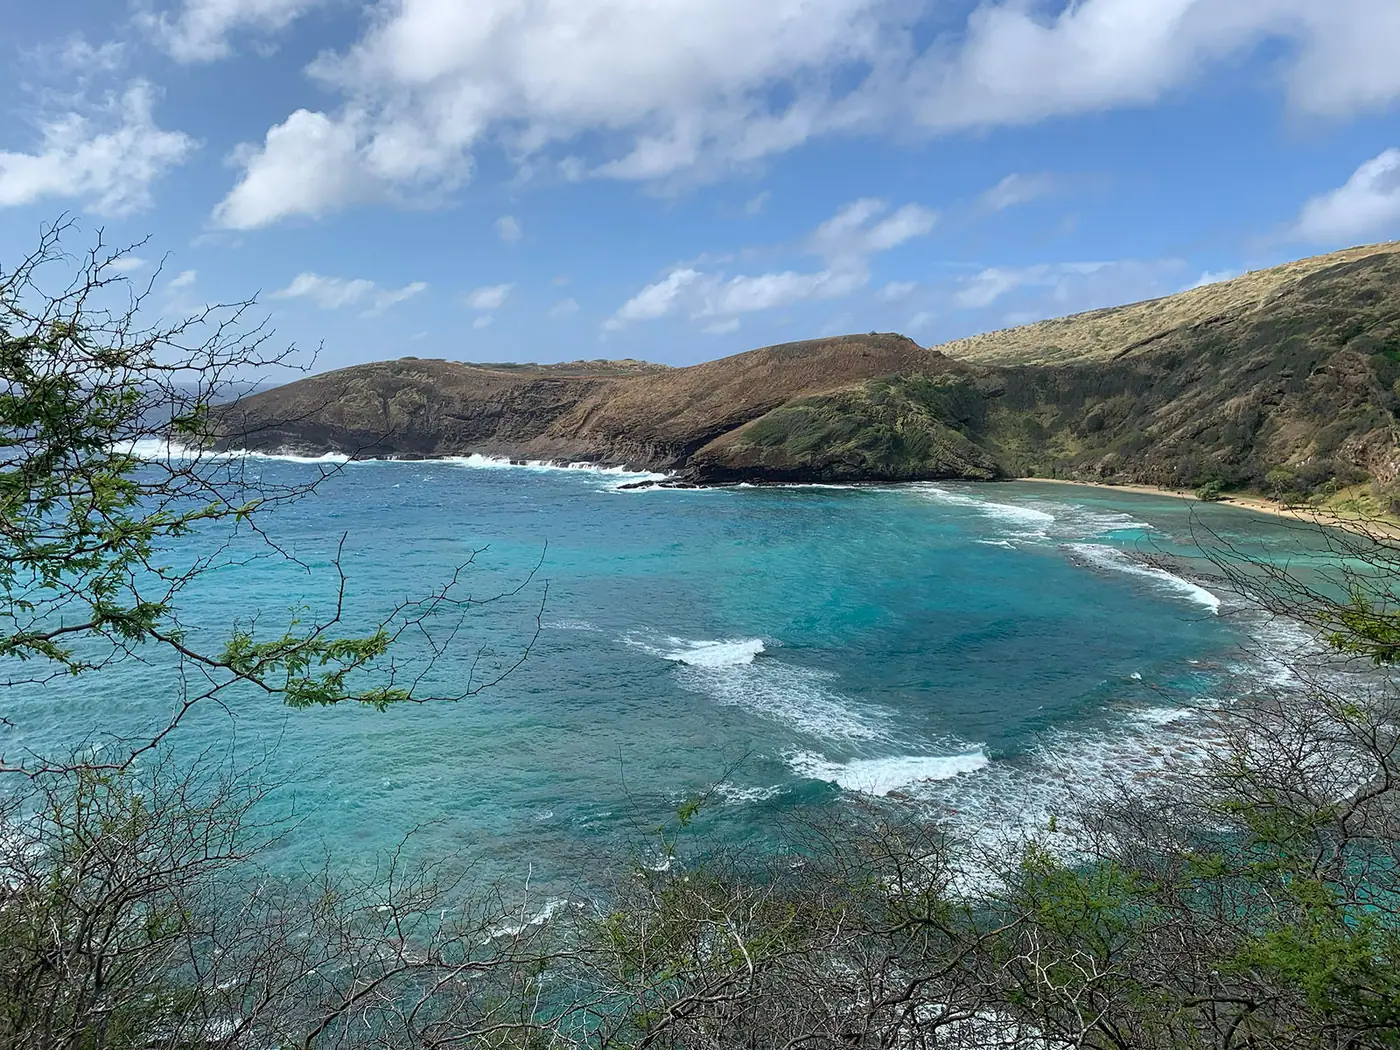
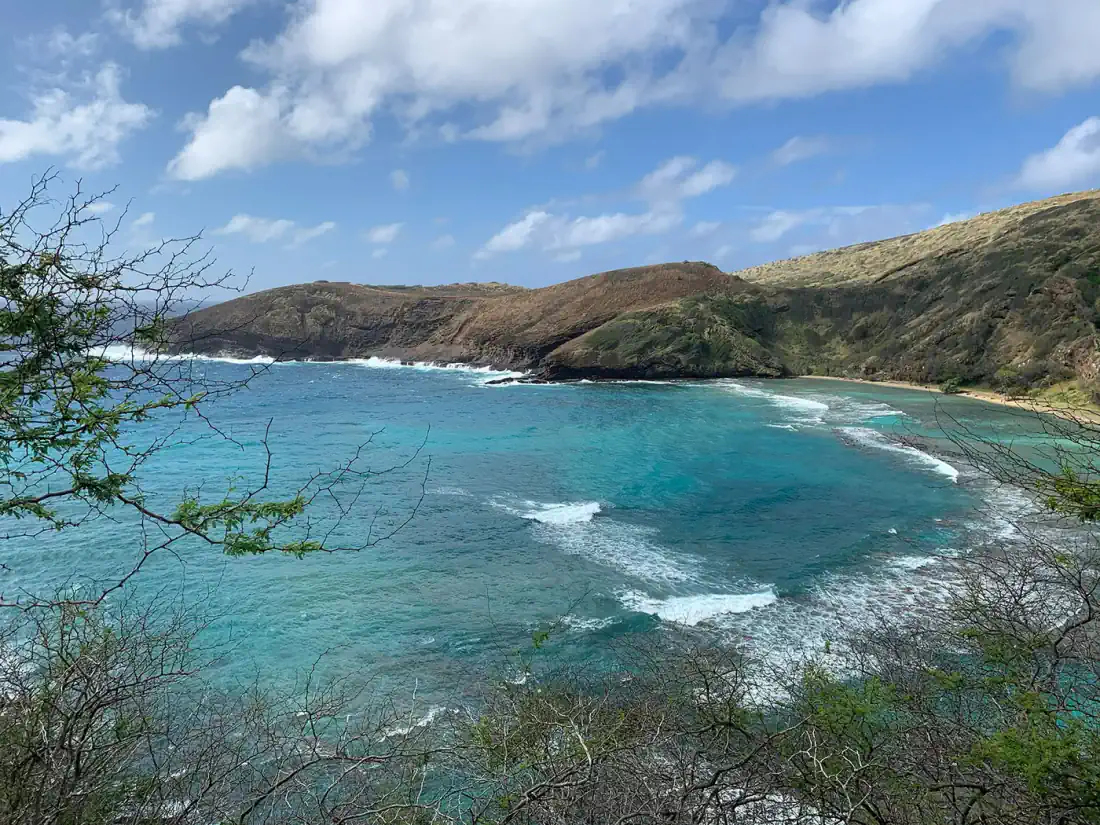
perf(web): re-encode the process movie frames at 1100px

diff --git a/src/lib/demos/hawaii-movie.ts b/src/lib/demos/hawaii-movie.ts
@@ -1,20 +1,17 @@
 import type { LayerKind } from '$lib/types';
 
 /**
- * Script data for the Hero "movie" demo (Category 1 of the 2026-06-13 demo
- * system plan). A scripted, cinematic playback of the real Editmamei co-work
- * loop on a Hawaii bay photo (Hanauma-style vista, IMG_1057): prompt → AI works
- * → checks in with you → finishes. Consumed by `HeroMovie.svelte`.
+ * Script data for the scripted "movie" demo on /photoshop: a condensed replay
+ * of the Editmamei co-work loop on a Hawaii bay photo (prompt, the AI works,
+ * it checks in with you, it finishes). Consumed by `HeroMovie.svelte`.
  *
- * FRAMES ARE REAL PHOTOSHOP EXPORTS (2026-06-13).
- * Each `frame-NN` is one cumulative export from a genuine non-destructive layer
- * stack built in Photoshop 27.2 (Brightness/Contrast → Vibrance → sky-masked
- * Hue/Sat → headland-masked warming Photo Filter → micro-contrast →
- * surf-masked lift → multiply vignette → 16:9 crop). Exported at 1400px WebP.
- * The layered master is `Hawaii-Movie-IMG_1057.psd` in PhotosInbox. The check-in
+ * Each `frame-NN` is one cumulative Photoshop export from a non-destructive
+ * layer stack built in Photoshop 27.2 (Brightness/Contrast, Vibrance, sky-masked
+ * Hue/Sat, headland-masked warming Photo Filter, micro-contrast, surf-masked
+ * lift, multiply vignette, 16:9 crop), stored as 1100px WebP. The check-in
  * "cool" thumbnail reuses frame-04 (the pre-warm state); the decision warms the
- * headland (frame-05). No CSS `filter` stand-ins remain — `MovieFrame.filter`
- * stays optional only because the component reads it defensively.
+ * headland (frame-05). `MovieFrame.filter` is optional and unused by the
+ * current frames; the component reads it defensively.
  */
 
 const DIR = '/demos/hawaii-movie';
@@ -109,7 +106,7 @@ export const hawaiiMovie: HeroMovieScript = {
  * Every frame the movie paints, in play order, for preloading. The check-in
  * thumbnail reuses frame-04, so it needs no entry of its own.
  *
- * These are ~330 KB each and nothing else on the page requests them, so
+ * These are ~140 KB each and nothing else on the page requests them, so
  * `HeroMovie.svelte` warms them before playback rather than letting each one be
  * fetched at the instant its wipe starts.
  */
